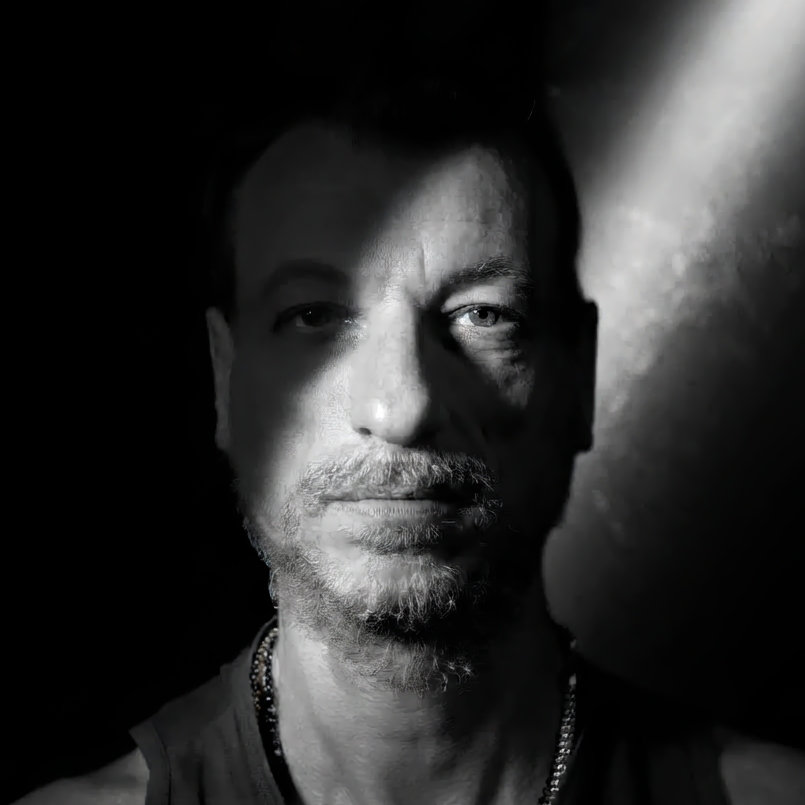
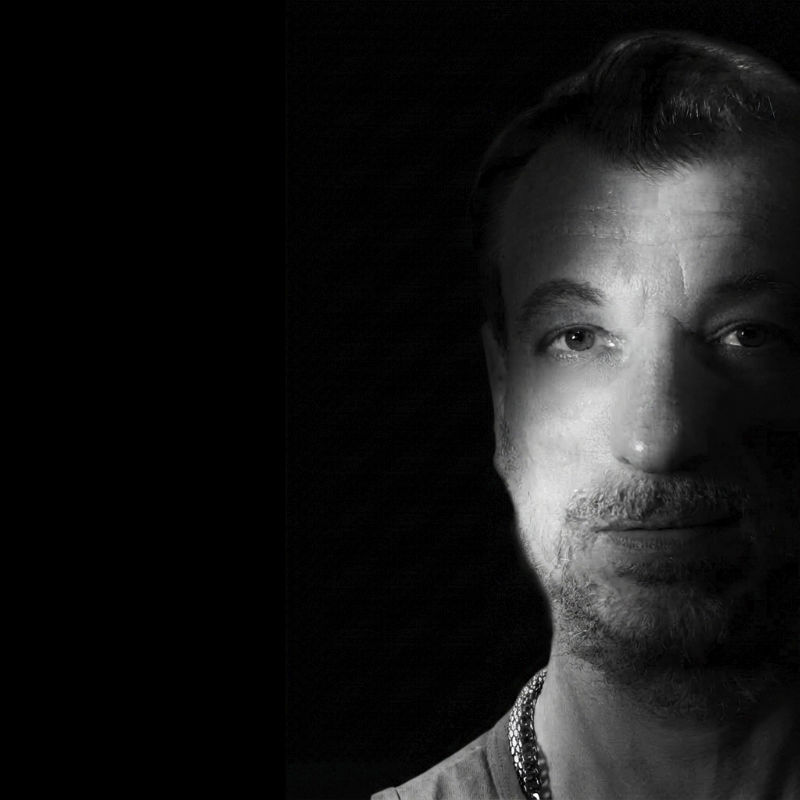
Desplazar retrato a la derecha y reducir brillo glossy un 15%

diff --git a/css/style.css b/css/style.css
@@ -132,7 +132,7 @@ body[data-lang="en"] .lang-es{ display:none; }
   inset: 0;
   background-image: url('../assets/perfil.jpg');
   background-size: cover;
-  background-position: center 30%;
+  background-position: 85% 30%;
   filter: grayscale(1) contrast(1.05);
   transform: scale(1.02); /* avoid edge seams while animating */
   transition: filter var(--dur) var(--ease), opacity var(--dur) var(--ease);
@@ -182,7 +182,7 @@ body.panel-open .portrait{
   content: '';
   position: absolute;
   inset: 0 0 55% 0;
-  background: linear-gradient(180deg, rgba(255,255,255,.28), rgba(255,255,255,0));
+  background: linear-gradient(180deg, rgba(255,255,255,.238), rgba(255,255,255,0));
   pointer-events: none;
 }
 
